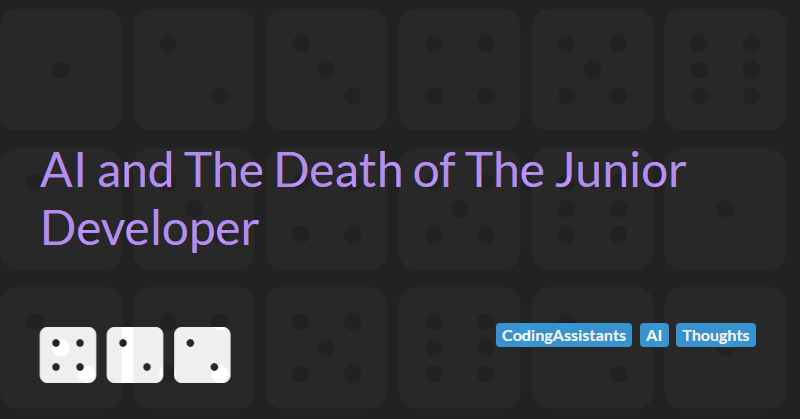
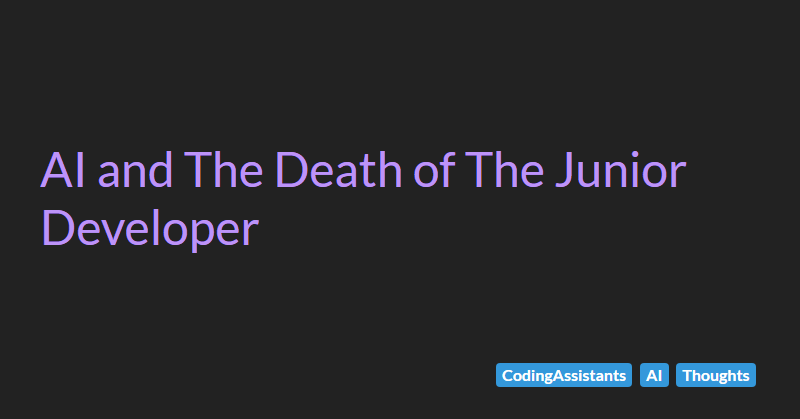
Blog Update 1172

Changed region(s): [[0.0312, 0.7757, 0.3125, 0.9308], [0.5938, 0.7446, 0.9688, 0.8377], [0.5938, 0.8687, 0.9688, 0.9308]]

diff --git a/Blog/all.html b/Blog/all.html
@@ -60,6 +60,18 @@
 
 <ul class="list-group list-group-flush">
     <li class="list-group-item">
+        <h4><a href="./AgileTechnicalPractices/PairProgrammingProperlyUnderstood.html">Pair Programming, Properly Understood</a></h4>
+        <div>
+            <span class="badge badge-info">AgileTechnicalPractices</span>
+            <span class="badge badge-info">PairProgramming</span>
+            <span class="badge badge-info">XP</span>
+        </div>
+
+            <p>A practitioner deep-dive into what the data actually says about pair programming, why most teams &quot;do pair programming&quot; and get few of the benefits, and what the discipline looks like when it is done well.</p>
+
+            <p class="text-muted">May 28, 2026</p>
+    </li>
+    <li class="list-group-item">
         <h4><a href="./AgileTechnicalPractices/ContractTestingInMicroservices.html">Contract Testing in Microservices: Beyond E2E</a></h4>
         <div>
             <span class="badge badge-info">AgileTechnicalPractices</span>
@@ -156,18 +168,6 @@
             <p>As AI coding agents automate simpler tasks, the traditional apprenticeship model that nurtures junior developers is at risk. This article explores the long-term implications for engineering teams and argues that preserving pathways for junior talent is essential to sustain software development as a craft.</p>
 
             <p class="text-muted">Jul 10, 2025</p>
-    </li>
-    <li class="list-group-item">
-        <h4><a href="./AgileTechnicalPractices/PairProgrammingProperlyUnderstood.html">Pair Programming, Properly Understood</a></h4>
-        <div>
-            <span class="badge badge-info">AgileTechnicalPractices</span>
-            <span class="badge badge-info">PairProgramming</span>
-            <span class="badge badge-info">XP</span>
-        </div>
-
-            <p>A practitioner deep-dive into what the data actually says about pair programming, why most teams &quot;do pair programming&quot; and get few of the benefits, and what the discipline looks like when it is done well.</p>
-
-            <p class="text-muted">May 28, 2025</p>
     </li>
     <li class="list-group-item">
         <h4><a href="./Thoughts/VibeCodingTheEmperorsNewClothes.html">Vibe Coding: The Emperor&#39;s New Clothes</a></h4>

diff --git a/Blog/index.html b/Blog/index.html
@@ -61,6 +61,18 @@
 
 <ul class="list-group list-group-flush">
     <li class="list-group-item">
+        <h4><a href="./AgileTechnicalPractices/PairProgrammingProperlyUnderstood.html">Pair Programming, Properly Understood</a></h4>
+        <div>
+            <span class="badge badge-info">AgileTechnicalPractices</span>
+            <span class="badge badge-info">PairProgramming</span>
+            <span class="badge badge-info">XP</span>
+        </div>
+
+            <p>A practitioner deep-dive into what the data actually says about pair programming, why most teams &quot;do pair programming&quot; and get few of the benefits, and what the discipline looks like when it is done well.</p>
+
+            <p class="text-muted">May 28, 2026</p>
+    </li>
+    <li class="list-group-item">
         <h4><a href="./AgileTechnicalPractices/ContractTestingInMicroservices.html">Contract Testing in Microservices: Beyond E2E</a></h4>
         <div>
             <span class="badge badge-info">AgileTechnicalPractices</span>
@@ -157,18 +169,6 @@
             <p>As AI coding agents automate simpler tasks, the traditional apprenticeship model that nurtures junior developers is at risk. This article explores the long-term implications for engineering teams and argues that preserving pathways for junior talent is essential to sustain software development as a craft.</p>
 
             <p class="text-muted">Jul 10, 2025</p>
-    </li>
-    <li class="list-group-item">
-        <h4><a href="./AgileTechnicalPractices/PairProgrammingProperlyUnderstood.html">Pair Programming, Properly Understood</a></h4>
-        <div>
-            <span class="badge badge-info">AgileTechnicalPractices</span>
-            <span class="badge badge-info">PairProgramming</span>
-            <span class="badge badge-info">XP</span>
-        </div>
-
-            <p>A practitioner deep-dive into what the data actually says about pair programming, why most teams &quot;do pair programming&quot; and get few of the benefits, and what the discipline looks like when it is done well.</p>
-
-            <p class="text-muted">May 28, 2025</p>
     </li>
     <li class="list-group-item">
         <h4><a href="./Thoughts/VibeCodingTheEmperorsNewClothes.html">Vibe Coding: The Emperor&#39;s New Clothes</a></h4>

diff --git a/Blog/AgileTechnicalPractices/PairProgrammingProperlyUnderstood.html b/Blog/AgileTechnicalPractices/PairProgrammingProperlyUnderstood.html
@@ -59,7 +59,7 @@
         <main role="main" class="pb-3">
             
 <div class="article-header">
-    <span class="article-date">May 28, 2025</span>
+    <span class="article-date">May 28, 2026</span>
     
     <span class="article-tags">
         <span class="badge badge-info">AgileTechnicalPractices</span>
